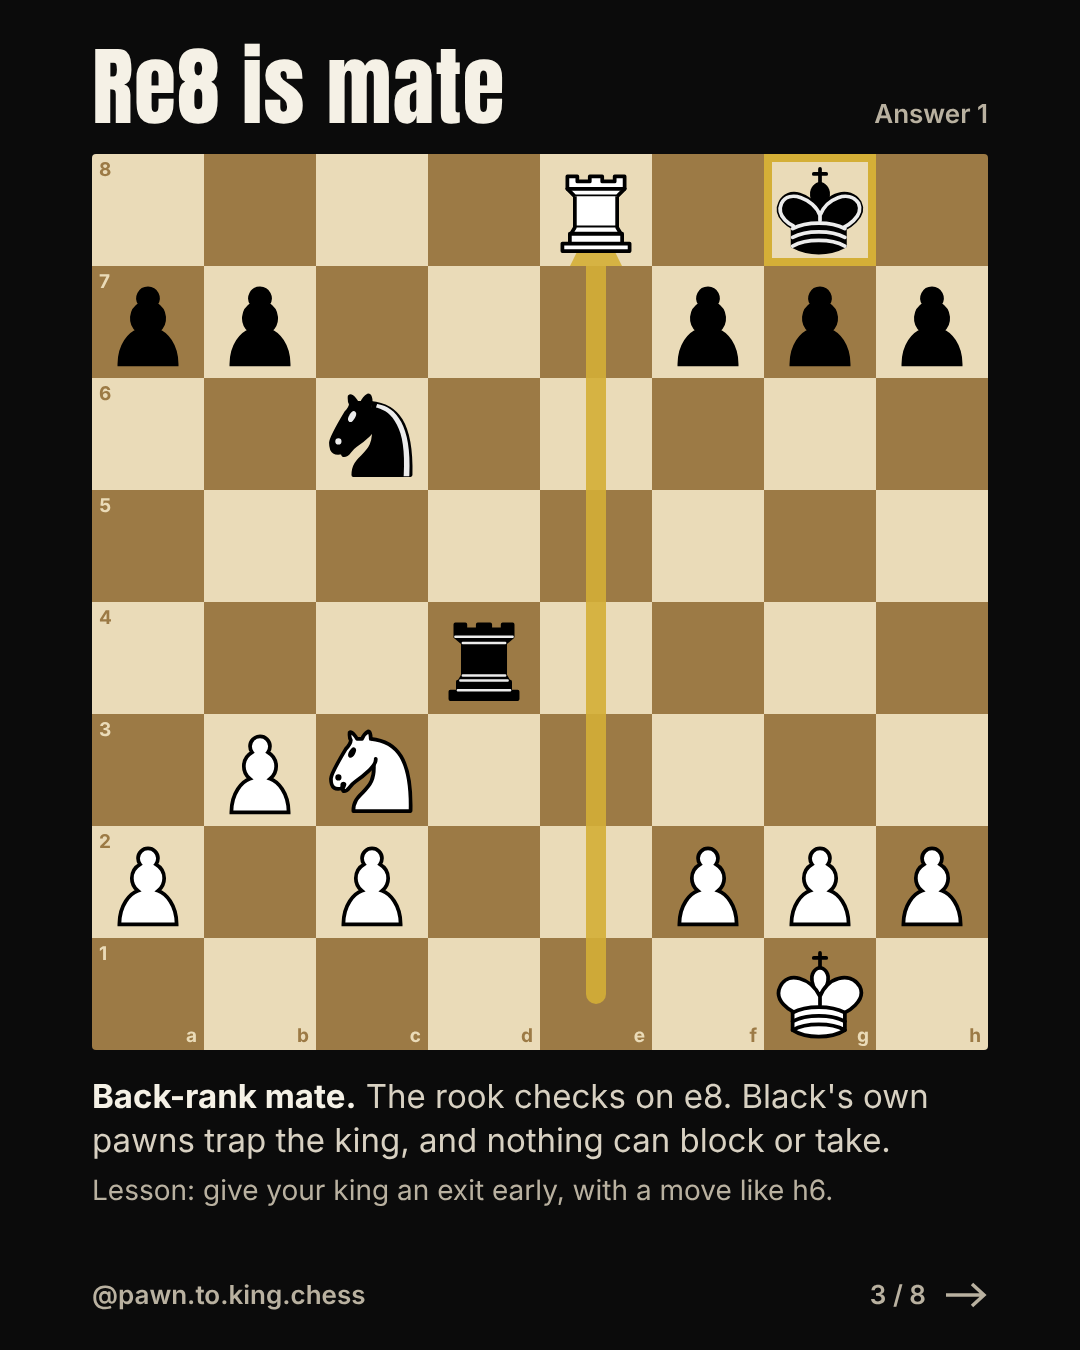
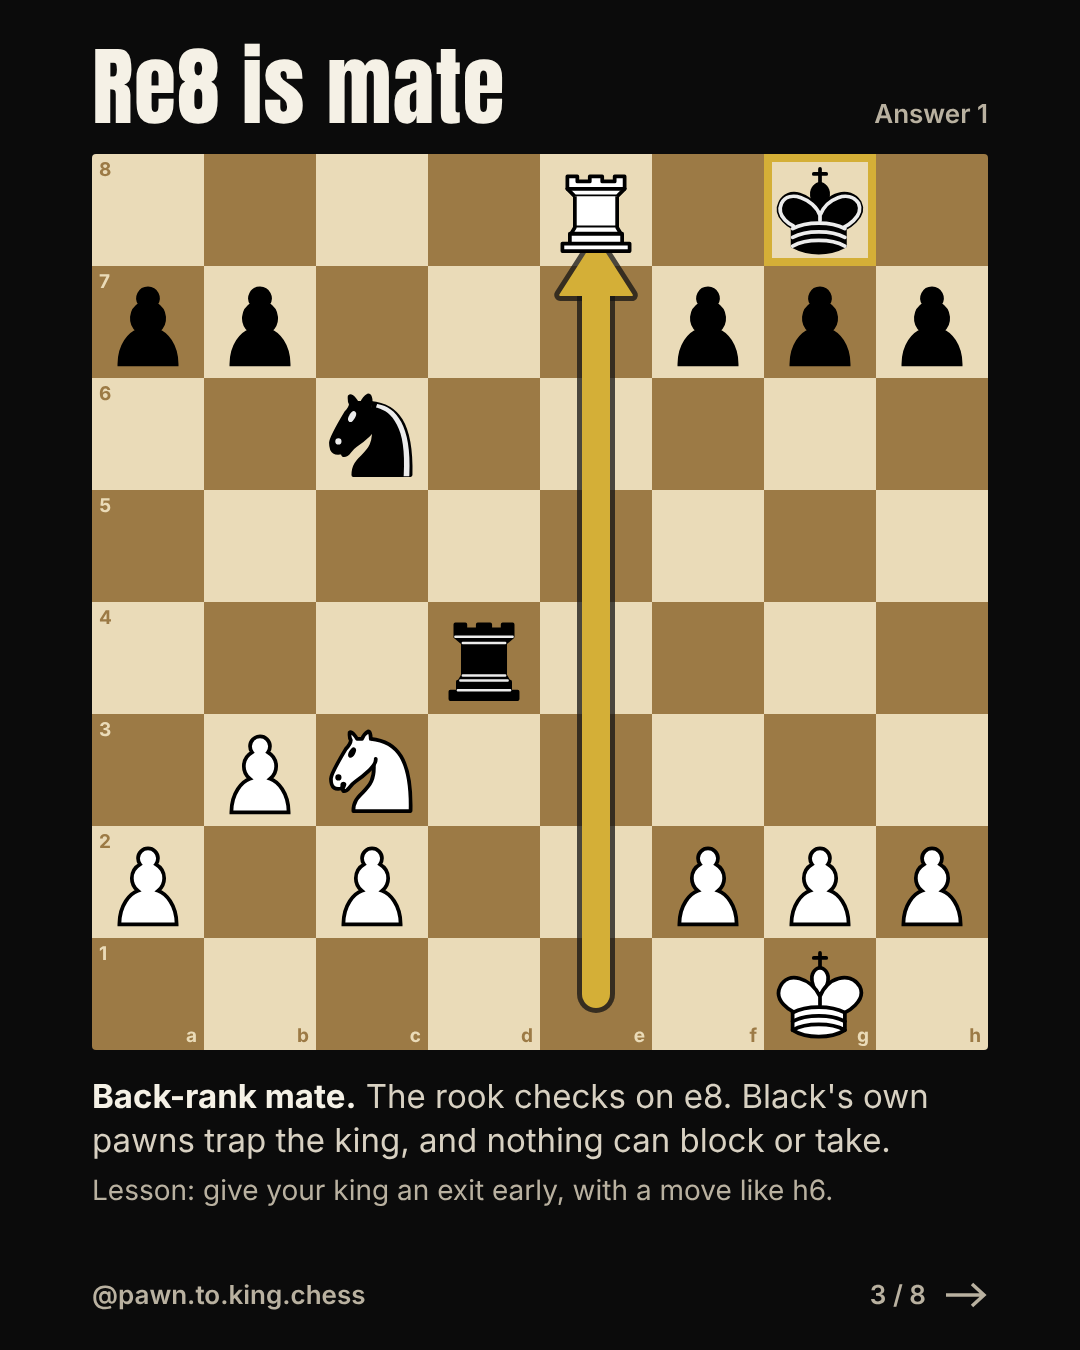
Puzzles carousel: bolder answer arrows
Thicker shafts with large arrowheads drawn as polygons and a dark outline
pass, so the gold arrows read on light squares and at phone size.

Claude-Session: https://claude.ai/code/session_015jQ6kgkjNtPsLUSPXPdSTz

Changed region(s): [[0.5194, 0.1867, 0.5806, 0.7467]]

diff --git a/source/puzzles/A3.dc.html b/source/puzzles/A3.dc.html
@@ -25,7 +25,7 @@ body{margin:0}
 <div aria-hidden="true" style="position: absolute; right: 7px; bottom: 3px; font-size: 19px; font-weight: 700; color: {{sq.co}}">{{sq.file}}</div>
 </div>
 </sc-for>
-<svg aria-hidden="true" width="896" height="896" viewBox="0 0 896 896" style="position: absolute; left: 0; top: 0; pointer-events: none"><defs><marker id="ah-a3" viewBox="0 0 10 10" refX="3" refY="5" markerWidth="2.6" markerHeight="2.6" orient="auto"><path d="M0 0L10 5L0 10z" fill="#D4AF37"></path></marker></defs><path d="{{a1}}" stroke="#D4AF37" stroke-width="20" stroke-linecap="round" fill="none" opacity="0.9" stroke-dasharray="2 30" marker-end="url(#ah-a3)"></path><path d="{{a2}}" stroke="#D4AF37" stroke-width="20" stroke-linecap="round" fill="none" opacity="0.9" marker-end="url(#ah-a3)"></path></svg>
+<svg aria-hidden="true" width="896" height="896" viewBox="0 0 896 896" style="position: absolute; left: 0; top: 0; pointer-events: none"><g stroke="#141414" stroke-opacity="0.75" stroke-linecap="round" stroke-linejoin="round" fill="#141414" fill-opacity="0.75"><path d="{{a1.shaft}}" stroke-width="38" fill="none" stroke-dasharray="1 40"></path><polygon points="{{a1.head}}" stroke-width="12"></polygon><path d="{{a2.shaft}}" stroke-width="38" fill="none"></path><polygon points="{{a2.head}}" stroke-width="12"></polygon></g><g stroke="#D4AF37" stroke-linecap="round" stroke-linejoin="round" fill="#D4AF37"><path d="{{a1.shaft}}" stroke-width="28" fill="none" stroke-dasharray="1 40"></path><polygon points="{{a1.head}}" stroke-width="2"></polygon><path d="{{a2.shaft}}" stroke-width="28" fill="none"></path><polygon points="{{a2.head}}" stroke-width="2"></polygon></g></svg>
 <div style="position: absolute; inset: 0; display: grid; grid-template-columns: repeat(8, 112px); pointer-events: none">
 <sc-for list="{{squares}}" as="sq" hint-placeholder-count="64"><div style="position: relative; width: 112px; height: 112px"><sc-if value="{{sq.img}}"><img src="{{sq.img}}" alt="" style="position: absolute; inset: 0; width: 100%; height: 100%"></sc-if></div></sc-for>
 </div>
@@ -56,8 +56,11 @@ return out;
 }
 arrow(a, b, s) {
 var f = 'abcdefgh', x1 = f.indexOf(a[0]) * s + s / 2, y1 = (8 - Number(a[1])) * s + s / 2, x2 = f.indexOf(b[0]) * s + s / 2, y2 = (8 - Number(b[1])) * s + s / 2;
-var dx = x2 - x1, dy = y2 - y1, L = Math.sqrt(dx * dx + dy * dy), k = (L - s * 0.36) / L;
-return 'M' + x1 + ' ' + y1 + 'L' + (x1 + dx * k).toFixed(1) + ' ' + (y1 + dy * k).toFixed(1);
+var dx = x2 - x1, dy = y2 - y1, L = Math.sqrt(dx * dx + dy * dy), ux = dx / L, uy = dy / L;
+var tip = L - s * 0.26, base = tip - s * 0.5, w = s * 0.32;
+var tx = x1 + ux * tip, ty = y1 + uy * tip, bx = x1 + ux * base, by = y1 + uy * base;
+var pt = function (x, y) { return x.toFixed(1) + ',' + y.toFixed(1); };
+return { shaft: 'M' + x1 + ' ' + y1 + 'L' + pt(bx + ux * 4, by + uy * 4).replace(',', ' '), head: pt(tx, ty) + ' ' + pt(bx - uy * w, by + ux * w) + ' ' + pt(bx + uy * w, by - ux * w) };
 }
 renderVals() {
 var p = {"g1": "K", "c1": "B", "a1": "R", "f1": "R", "a2": "P", "b2": "P", "c3": "P", "e4": "P", "f2": "P", "g2": "P", "h2": "P", "h8": "k", "d8": "q", "a8": "r", "c8": "b", "a7": "p", "b7": "p", "c6": "p", "e5": "p", "g7": "p", "h7": "p", "g8": "r", "f7": "N"};

diff --git a/source/puzzles/A2.dc.html b/source/puzzles/A2.dc.html
@@ -25,7 +25,7 @@ body{margin:0}
 <div aria-hidden="true" style="position: absolute; right: 7px; bottom: 3px; font-size: 19px; font-weight: 700; color: {{sq.co}}">{{sq.file}}</div>
 </div>
 </sc-for>
-<svg aria-hidden="true" width="896" height="896" viewBox="0 0 896 896" style="position: absolute; left: 0; top: 0; pointer-events: none"><defs><marker id="ah-a2" viewBox="0 0 10 10" refX="3" refY="5" markerWidth="2.6" markerHeight="2.6" orient="auto"><path d="M0 0L10 5L0 10z" fill="#D4AF37"></path></marker></defs><path d="{{a1}}" stroke="#D4AF37" stroke-width="20" stroke-linecap="round" fill="none" opacity="0.9" marker-end="url(#ah-a2)"></path><path d="{{a2}}" stroke="#D4AF37" stroke-width="20" stroke-linecap="round" fill="none" opacity="0.9" marker-end="url(#ah-a2)"></path></svg>
+<svg aria-hidden="true" width="896" height="896" viewBox="0 0 896 896" style="position: absolute; left: 0; top: 0; pointer-events: none"><g stroke="#141414" stroke-opacity="0.75" stroke-linecap="round" stroke-linejoin="round" fill="#141414" fill-opacity="0.75"><path d="{{a1.shaft}}" stroke-width="38" fill="none"></path><polygon points="{{a1.head}}" stroke-width="12"></polygon><path d="{{a2.shaft}}" stroke-width="38" fill="none"></path><polygon points="{{a2.head}}" stroke-width="12"></polygon></g><g stroke="#D4AF37" stroke-linecap="round" stroke-linejoin="round" fill="#D4AF37"><path d="{{a1.shaft}}" stroke-width="28" fill="none"></path><polygon points="{{a1.head}}" stroke-width="2"></polygon><path d="{{a2.shaft}}" stroke-width="28" fill="none"></path><polygon points="{{a2.head}}" stroke-width="2"></polygon></g></svg>
 <div style="position: absolute; inset: 0; display: grid; grid-template-columns: repeat(8, 112px); pointer-events: none">
 <sc-for list="{{squares}}" as="sq" hint-placeholder-count="64"><div style="position: relative; width: 112px; height: 112px"><sc-if value="{{sq.img}}"><img src="{{sq.img}}" alt="" style="position: absolute; inset: 0; width: 100%; height: 100%"></sc-if></div></sc-for>
 </div>
@@ -56,8 +56,11 @@ return out;
 }
 arrow(a, b, s) {
 var f = 'abcdefgh', x1 = f.indexOf(a[0]) * s + s / 2, y1 = (8 - Number(a[1])) * s + s / 2, x2 = f.indexOf(b[0]) * s + s / 2, y2 = (8 - Number(b[1])) * s + s / 2;
-var dx = x2 - x1, dy = y2 - y1, L = Math.sqrt(dx * dx + dy * dy), k = (L - s * 0.36) / L;
-return 'M' + x1 + ' ' + y1 + 'L' + (x1 + dx * k).toFixed(1) + ' ' + (y1 + dy * k).toFixed(1);
+var dx = x2 - x1, dy = y2 - y1, L = Math.sqrt(dx * dx + dy * dy), ux = dx / L, uy = dy / L;
+var tip = L - s * 0.26, base = tip - s * 0.5, w = s * 0.32;
+var tx = x1 + ux * tip, ty = y1 + uy * tip, bx = x1 + ux * base, by = y1 + uy * base;
+var pt = function (x, y) { return x.toFixed(1) + ',' + y.toFixed(1); };
+return { shaft: 'M' + x1 + ' ' + y1 + 'L' + pt(bx + ux * 4, by + uy * 4).replace(',', ' '), head: pt(tx, ty) + ' ' + pt(bx - uy * w, by + ux * w) + ' ' + pt(bx + uy * w, by - ux * w) };
 }
 renderVals() {
 var p = {"g1": "K", "e1": "R", "a2": "P", "b2": "P", "c2": "P", "f2": "P", "g2": "P", "h2": "P", "g8": "k", "c6": "q", "f8": "r", "c8": "b", "a7": "p", "b7": "p", "f7": "p", "g7": "p", "h7": "p", "e7": "N"};

diff --git a/source/puzzles/A1.dc.html b/source/puzzles/A1.dc.html
@@ -25,7 +25,7 @@ body{margin:0}
 <div aria-hidden="true" style="position: absolute; right: 7px; bottom: 3px; font-size: 19px; font-weight: 700; color: {{sq.co}}">{{sq.file}}</div>
 </div>
 </sc-for>
-<svg aria-hidden="true" width="896" height="896" viewBox="0 0 896 896" style="position: absolute; left: 0; top: 0; pointer-events: none"><defs><marker id="ah-a1" viewBox="0 0 10 10" refX="3" refY="5" markerWidth="2.6" markerHeight="2.6" orient="auto"><path d="M0 0L10 5L0 10z" fill="#D4AF37"></path></marker></defs><path d="{{a1}}" stroke="#D4AF37" stroke-width="20" stroke-linecap="round" fill="none" opacity="0.9" marker-end="url(#ah-a1)"></path></svg>
+<svg aria-hidden="true" width="896" height="896" viewBox="0 0 896 896" style="position: absolute; left: 0; top: 0; pointer-events: none"><g stroke="#141414" stroke-opacity="0.75" stroke-linecap="round" stroke-linejoin="round" fill="#141414" fill-opacity="0.75"><path d="{{a1.shaft}}" stroke-width="38" fill="none"></path><polygon points="{{a1.head}}" stroke-width="12"></polygon></g><g stroke="#D4AF37" stroke-linecap="round" stroke-linejoin="round" fill="#D4AF37"><path d="{{a1.shaft}}" stroke-width="28" fill="none"></path><polygon points="{{a1.head}}" stroke-width="2"></polygon></g></svg>
 <div style="position: absolute; inset: 0; display: grid; grid-template-columns: repeat(8, 112px); pointer-events: none">
 <sc-for list="{{squares}}" as="sq" hint-placeholder-count="64"><div style="position: relative; width: 112px; height: 112px"><sc-if value="{{sq.img}}"><img src="{{sq.img}}" alt="" style="position: absolute; inset: 0; width: 100%; height: 100%"></sc-if></div></sc-for>
 </div>
@@ -56,8 +56,11 @@ return out;
 }
 arrow(a, b, s) {
 var f = 'abcdefgh', x1 = f.indexOf(a[0]) * s + s / 2, y1 = (8 - Number(a[1])) * s + s / 2, x2 = f.indexOf(b[0]) * s + s / 2, y2 = (8 - Number(b[1])) * s + s / 2;
-var dx = x2 - x1, dy = y2 - y1, L = Math.sqrt(dx * dx + dy * dy), k = (L - s * 0.36) / L;
-return 'M' + x1 + ' ' + y1 + 'L' + (x1 + dx * k).toFixed(1) + ' ' + (y1 + dy * k).toFixed(1);
+var dx = x2 - x1, dy = y2 - y1, L = Math.sqrt(dx * dx + dy * dy), ux = dx / L, uy = dy / L;
+var tip = L - s * 0.26, base = tip - s * 0.5, w = s * 0.32;
+var tx = x1 + ux * tip, ty = y1 + uy * tip, bx = x1 + ux * base, by = y1 + uy * base;
+var pt = function (x, y) { return x.toFixed(1) + ',' + y.toFixed(1); };
+return { shaft: 'M' + x1 + ' ' + y1 + 'L' + pt(bx + ux * 4, by + uy * 4).replace(',', ' '), head: pt(tx, ty) + ' ' + pt(bx - uy * w, by + ux * w) + ' ' + pt(bx + uy * w, by - ux * w) };
 }
 renderVals() {
 var p = {"g1": "K", "c3": "N", "a2": "P", "b3": "P", "c2": "P", "f2": "P", "g2": "P", "h2": "P", "g8": "k", "d4": "r", "c6": "n", "a7": "p", "b7": "p", "f7": "p", "g7": "p", "h7": "p", "e8": "R"};

diff --git a/source/puzzles/P3.dc.html b/source/puzzles/P3.dc.html
@@ -54,8 +54,11 @@ return out;
 }
 arrow(a, b, s) {
 var f = 'abcdefgh', x1 = f.indexOf(a[0]) * s + s / 2, y1 = (8 - Number(a[1])) * s + s / 2, x2 = f.indexOf(b[0]) * s + s / 2, y2 = (8 - Number(b[1])) * s + s / 2;
-var dx = x2 - x1, dy = y2 - y1, L = Math.sqrt(dx * dx + dy * dy), k = (L - s * 0.36) / L;
-return 'M' + x1 + ' ' + y1 + 'L' + (x1 + dx * k).toFixed(1) + ' ' + (y1 + dy * k).toFixed(1);
+var dx = x2 - x1, dy = y2 - y1, L = Math.sqrt(dx * dx + dy * dy), ux = dx / L, uy = dy / L;
+var tip = L - s * 0.26, base = tip - s * 0.5, w = s * 0.32;
+var tx = x1 + ux * tip, ty = y1 + uy * tip, bx = x1 + ux * base, by = y1 + uy * base;
+var pt = function (x, y) { return x.toFixed(1) + ',' + y.toFixed(1); };
+return { shaft: 'M' + x1 + ' ' + y1 + 'L' + pt(bx + ux * 4, by + uy * 4).replace(',', ' '), head: pt(tx, ty) + ' ' + pt(bx - uy * w, by + ux * w) + ' ' + pt(bx + uy * w, by - ux * w) };
 }
 renderVals() {
 var p = {"g1": "K", "c4": "Q", "h6": "N", "c1": "B", "a1": "R", "f1": "R", "a2": "P", "b2": "P", "c3": "P", "e4": "P", "f2": "P", "g2": "P", "h2": "P", "h8": "k", "d8": "q", "f8": "r", "a8": "r", "c8": "b", "a7": "p", "b7": "p", "c6": "p", "e5": "p", "g7": "p", "h7": "p"};

diff --git a/source/puzzles/P2.dc.html b/source/puzzles/P2.dc.html
@@ -54,8 +54,11 @@ return out;
 }
 arrow(a, b, s) {
 var f = 'abcdefgh', x1 = f.indexOf(a[0]) * s + s / 2, y1 = (8 - Number(a[1])) * s + s / 2, x2 = f.indexOf(b[0]) * s + s / 2, y2 = (8 - Number(b[1])) * s + s / 2;
-var dx = x2 - x1, dy = y2 - y1, L = Math.sqrt(dx * dx + dy * dy), k = (L - s * 0.36) / L;
-return 'M' + x1 + ' ' + y1 + 'L' + (x1 + dx * k).toFixed(1) + ' ' + (y1 + dy * k).toFixed(1);
+var dx = x2 - x1, dy = y2 - y1, L = Math.sqrt(dx * dx + dy * dy), ux = dx / L, uy = dy / L;
+var tip = L - s * 0.26, base = tip - s * 0.5, w = s * 0.32;
+var tx = x1 + ux * tip, ty = y1 + uy * tip, bx = x1 + ux * base, by = y1 + uy * base;
+var pt = function (x, y) { return x.toFixed(1) + ',' + y.toFixed(1); };
+return { shaft: 'M' + x1 + ' ' + y1 + 'L' + pt(bx + ux * 4, by + uy * 4).replace(',', ' '), head: pt(tx, ty) + ' ' + pt(bx - uy * w, by + ux * w) + ' ' + pt(bx + uy * w, by - ux * w) };
 }
 renderVals() {
 var p = {"g1": "K", "e1": "R", "d5": "N", "a2": "P", "b2": "P", "c2": "P", "f2": "P", "g2": "P", "h2": "P", "g8": "k", "c6": "q", "f8": "r", "c8": "b", "a7": "p", "b7": "p", "f7": "p", "g7": "p", "h7": "p"};

diff --git a/source/puzzles/P1.dc.html b/source/puzzles/P1.dc.html
@@ -54,8 +54,11 @@ return out;
 }
 arrow(a, b, s) {
 var f = 'abcdefgh', x1 = f.indexOf(a[0]) * s + s / 2, y1 = (8 - Number(a[1])) * s + s / 2, x2 = f.indexOf(b[0]) * s + s / 2, y2 = (8 - Number(b[1])) * s + s / 2;
-var dx = x2 - x1, dy = y2 - y1, L = Math.sqrt(dx * dx + dy * dy), k = (L - s * 0.36) / L;
-return 'M' + x1 + ' ' + y1 + 'L' + (x1 + dx * k).toFixed(1) + ' ' + (y1 + dy * k).toFixed(1);
+var dx = x2 - x1, dy = y2 - y1, L = Math.sqrt(dx * dx + dy * dy), ux = dx / L, uy = dy / L;
+var tip = L - s * 0.26, base = tip - s * 0.5, w = s * 0.32;
+var tx = x1 + ux * tip, ty = y1 + uy * tip, bx = x1 + ux * base, by = y1 + uy * base;
+var pt = function (x, y) { return x.toFixed(1) + ',' + y.toFixed(1); };
+return { shaft: 'M' + x1 + ' ' + y1 + 'L' + pt(bx + ux * 4, by + uy * 4).replace(',', ' '), head: pt(tx, ty) + ' ' + pt(bx - uy * w, by + ux * w) + ' ' + pt(bx + uy * w, by - ux * w) };
 }
 renderVals() {
 var p = {"g1": "K", "e1": "R", "c3": "N", "a2": "P", "b3": "P", "c2": "P", "f2": "P", "g2": "P", "h2": "P", "g8": "k", "d4": "r", "c6": "n", "a7": "p", "b7": "p", "f7": "p", "g7": "p", "h7": "p"};

diff --git a/scripts/build_puzzles.py b/scripts/build_puzzles.py
@@ -99,7 +99,9 @@ BOARD_SLIDE = """<div style="width: 1080px; height: 1350px; box-sizing: border-b
 </x-dc>
 """
 
-ARROWS = """<svg aria-hidden="true" width="896" height="896" viewBox="0 0 896 896" style="position: absolute; left: 0; top: 0; pointer-events: none"><defs><marker id="ah-%(id)s" viewBox="0 0 10 10" refX="3" refY="5" markerWidth="2.6" markerHeight="2.6" orient="auto"><path d="M0 0L10 5L0 10z" fill="#D4AF37"></path></marker></defs>%(paths)s</svg>
+# Arrows are drawn twice: a dark outline pass under all of them, then the gold pass,
+# so they read on the light squares and two arrows from one square don't cut each other.
+ARROWS = """<svg aria-hidden="true" width="896" height="896" viewBox="0 0 896 896" style="position: absolute; left: 0; top: 0; pointer-events: none"><g stroke="#141414" stroke-opacity="0.75" stroke-linecap="round" stroke-linejoin="round" fill="#141414" fill-opacity="0.75">%(outline)s</g><g stroke="#D4AF37" stroke-linecap="round" stroke-linejoin="round" fill="#D4AF37">%(gold)s</g></svg>
 """
 
 SCRIPT = """<script type="text/x-dc" data-dc-script data-props='{"$preview":{"width":1080,"height":1350}}'>
@@ -117,8 +119,11 @@ return out;
 }
 arrow(a, b, s) {
 var f = 'abcdefgh', x1 = f.indexOf(a[0]) * s + s / 2, y1 = (8 - Number(a[1])) * s + s / 2, x2 = f.indexOf(b[0]) * s + s / 2, y2 = (8 - Number(b[1])) * s + s / 2;
-var dx = x2 - x1, dy = y2 - y1, L = Math.sqrt(dx * dx + dy * dy), k = (L - s * 0.36) / L;
-return 'M' + x1 + ' ' + y1 + 'L' + (x1 + dx * k).toFixed(1) + ' ' + (y1 + dy * k).toFixed(1);
+var dx = x2 - x1, dy = y2 - y1, L = Math.sqrt(dx * dx + dy * dy), ux = dx / L, uy = dy / L;
+var tip = L - s * 0.26, base = tip - s * 0.5, w = s * 0.32;
+var tx = x1 + ux * tip, ty = y1 + uy * tip, bx = x1 + ux * base, by = y1 + uy * base;
+var pt = function (x, y) { return x.toFixed(1) + ',' + y.toFixed(1); };
+return { shaft: 'M' + x1 + ' ' + y1 + 'L' + pt(bx + ux * 4, by + uy * 4).replace(',', ' '), head: pt(tx, ty) + ' ' + pt(bx - uy * w, by + ux * w) + ' ' + pt(bx + uy * w, by - ux * w) };
 }
 renderVals() {
 var p = %(pos)s;
@@ -131,10 +136,11 @@ return { squares: this.squares(p, %(ring)s, 112)%(arrowvals)s };
 """
 
 def board_slide(d):
-    paths, vals = [], []
+    outline, gold, vals = [], [], []
     for i, (a, b, dashed) in enumerate(d['arrows'], 1):
-        dash = ' stroke-dasharray="2 30"' if dashed else ''
-        paths.append('<path d="{{a%d}}" stroke="#D4AF37" stroke-width="20" stroke-linecap="round" fill="none" opacity="0.9"%s marker-end="url(#ah-%s)"></path>' % (i, dash, d['file'].lower()))
+        dash = ' stroke-dasharray="1 40"' if dashed else ''
+        outline.append('<path d="{{a%d.shaft}}" stroke-width="38" fill="none"%s></path><polygon points="{{a%d.head}}" stroke-width="12"></polygon>' % (i, dash, i))
+        gold.append('<path d="{{a%d.shaft}}" stroke-width="28" fill="none"%s></path><polygon points="{{a%d.head}}" stroke-width="2"></polygon>' % (i, dash, i))
         vals.append(", a%d: this.arrow('%s', '%s', 112)" % (i, a, b))
     lines = []
     for lead, body in d['lines']:
@@ -144,7 +150,7 @@ def board_slide(d):
             lines.append('<p style="margin: 0; font-size: 28px; line-height: 1.34; color: #B9B1A0; max-width: 896px">%s</p>' % body)
     html = HEAD % d + BOARD_SLIDE % dict(
         upper='; text-transform: uppercase' if d['upper'] else '', head=d['head'], meta=d['meta'], label=d['label'], n=d['n'],
-        squares=SQUARE % {'s': 112}, pieces=PIECES % {'s': 112}, arrows=ARROWS % {'id': d['file'].lower(), 'paths': ''.join(paths)} if paths else '',
+        squares=SQUARE % {'s': 112}, pieces=PIECES % {'s': 112}, arrows=ARROWS % {'outline': ''.join(outline), 'gold': ''.join(gold)} if gold else '',
         lines='\n'.join(lines))
     html += SCRIPT % dict(pos=json.dumps(d['pos']), ring=json.dumps(d['ring']), arrowvals=''.join(vals))
     return html
